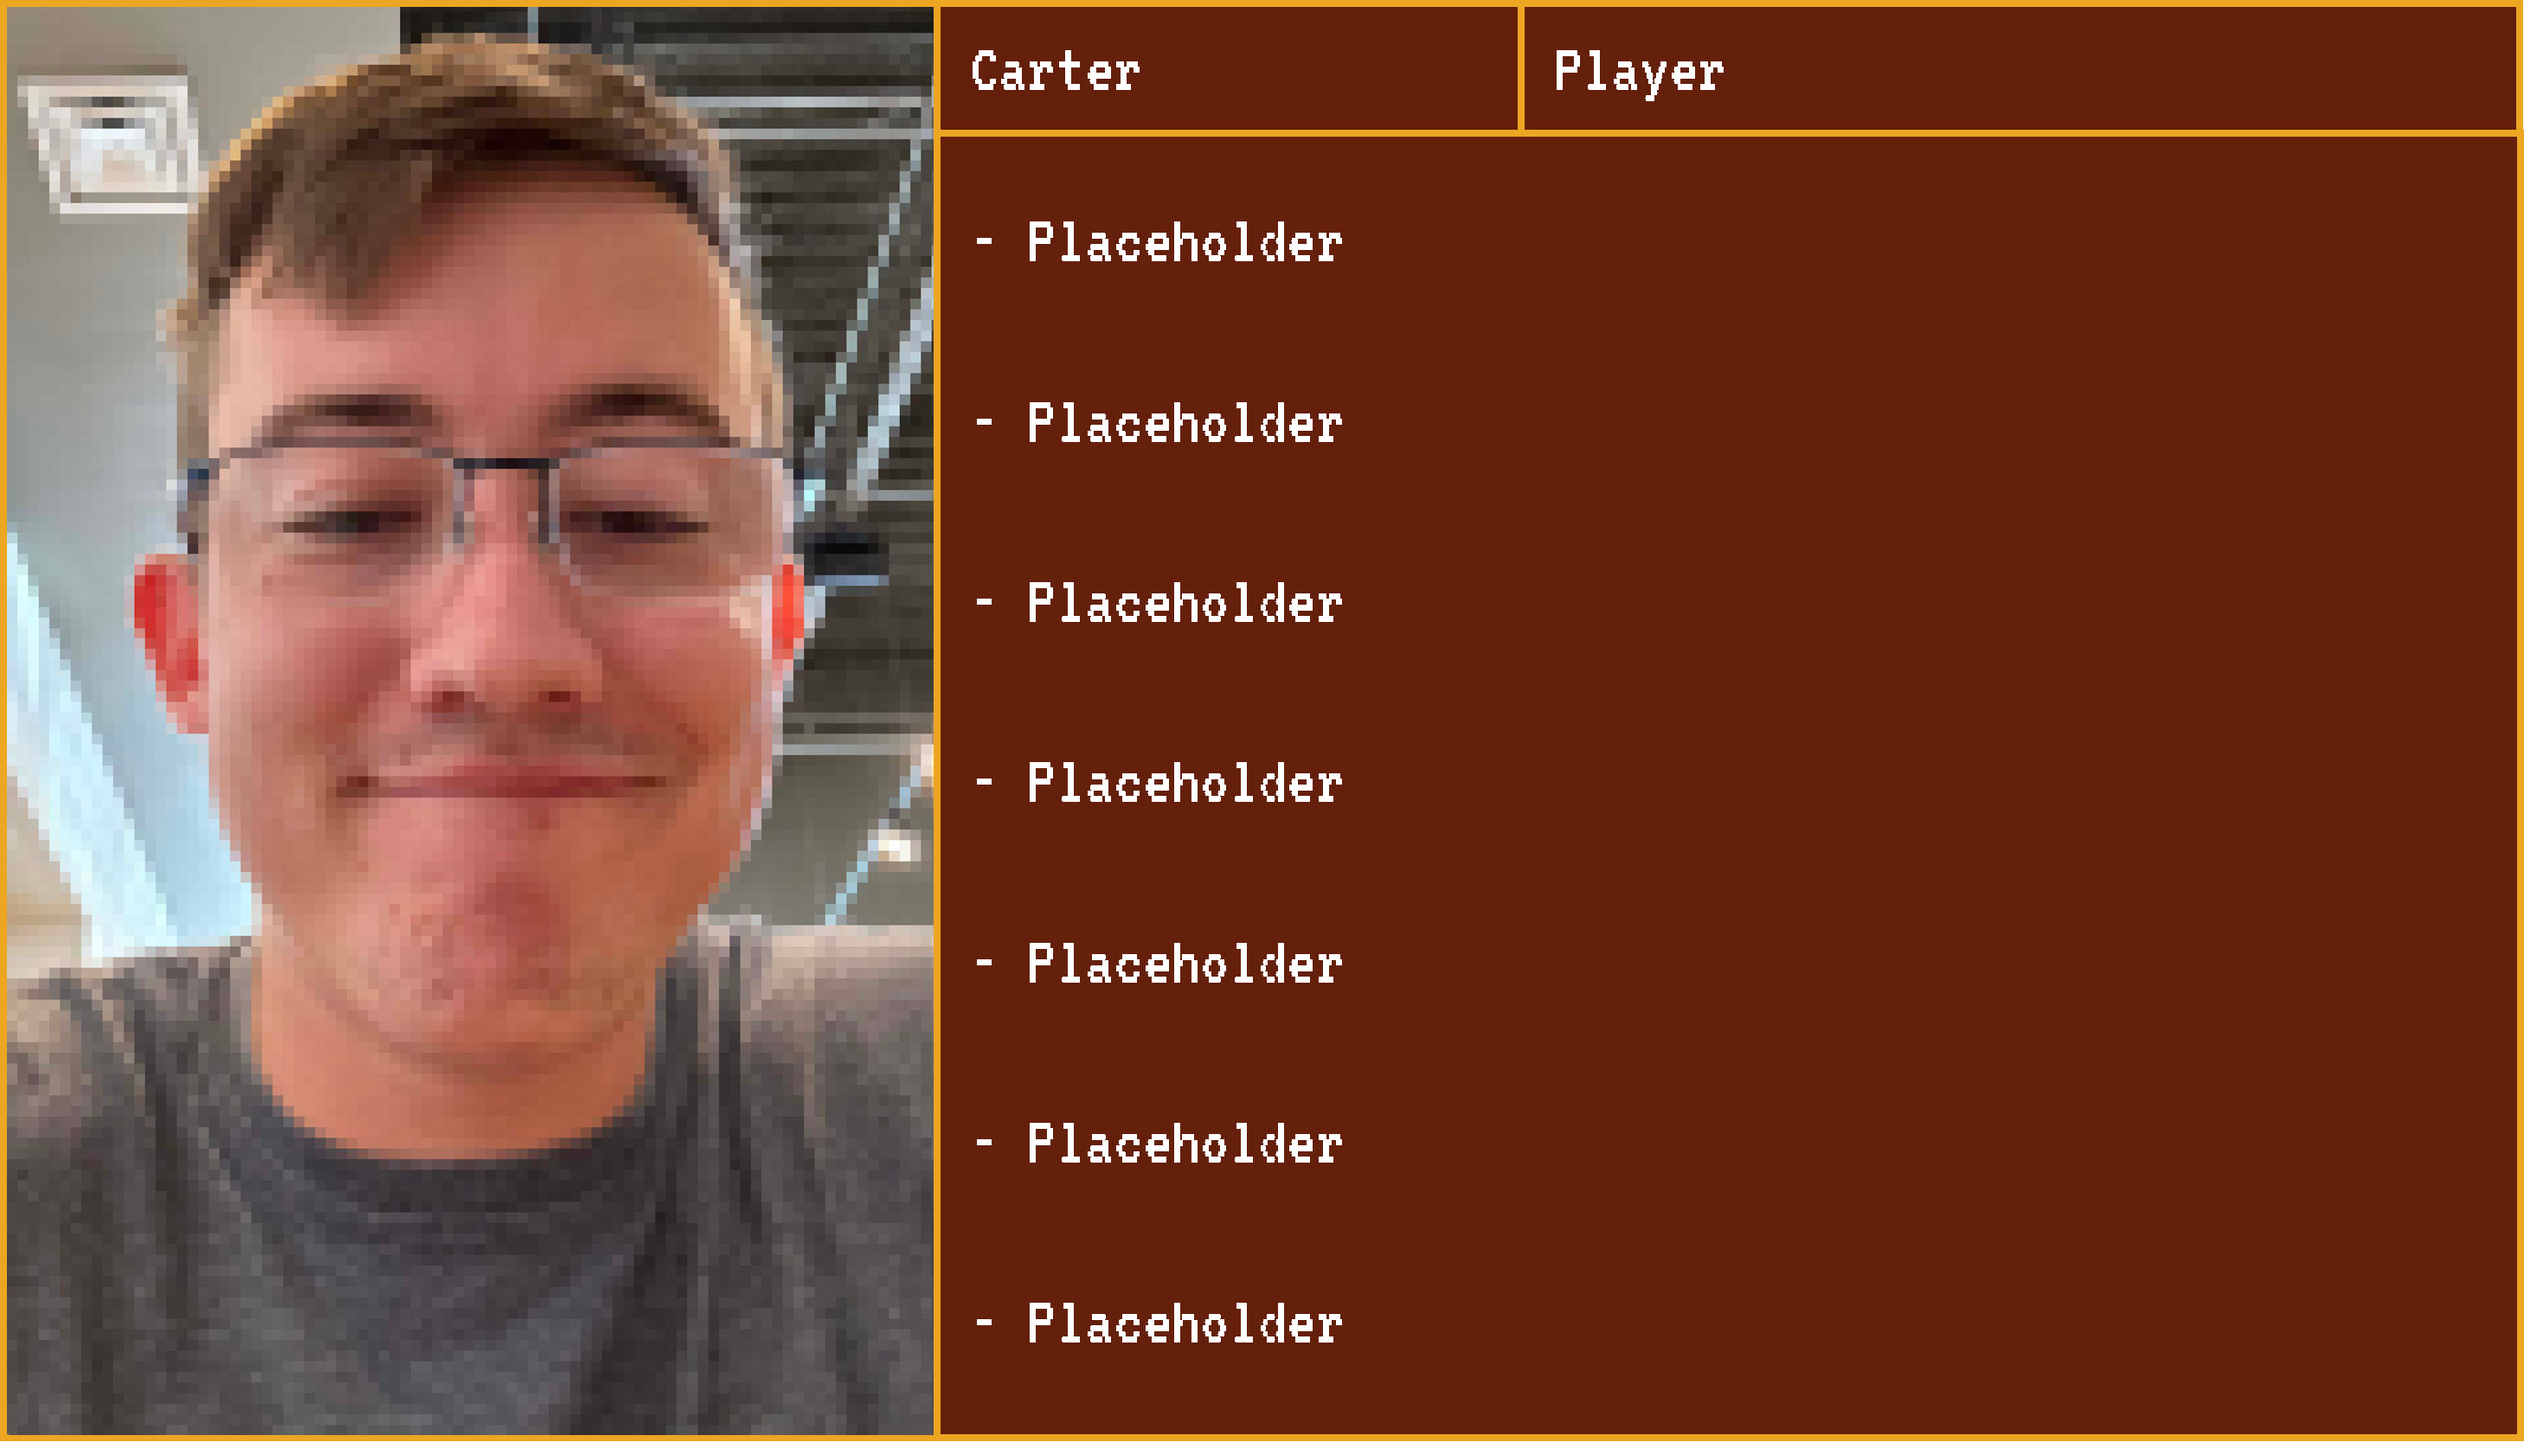
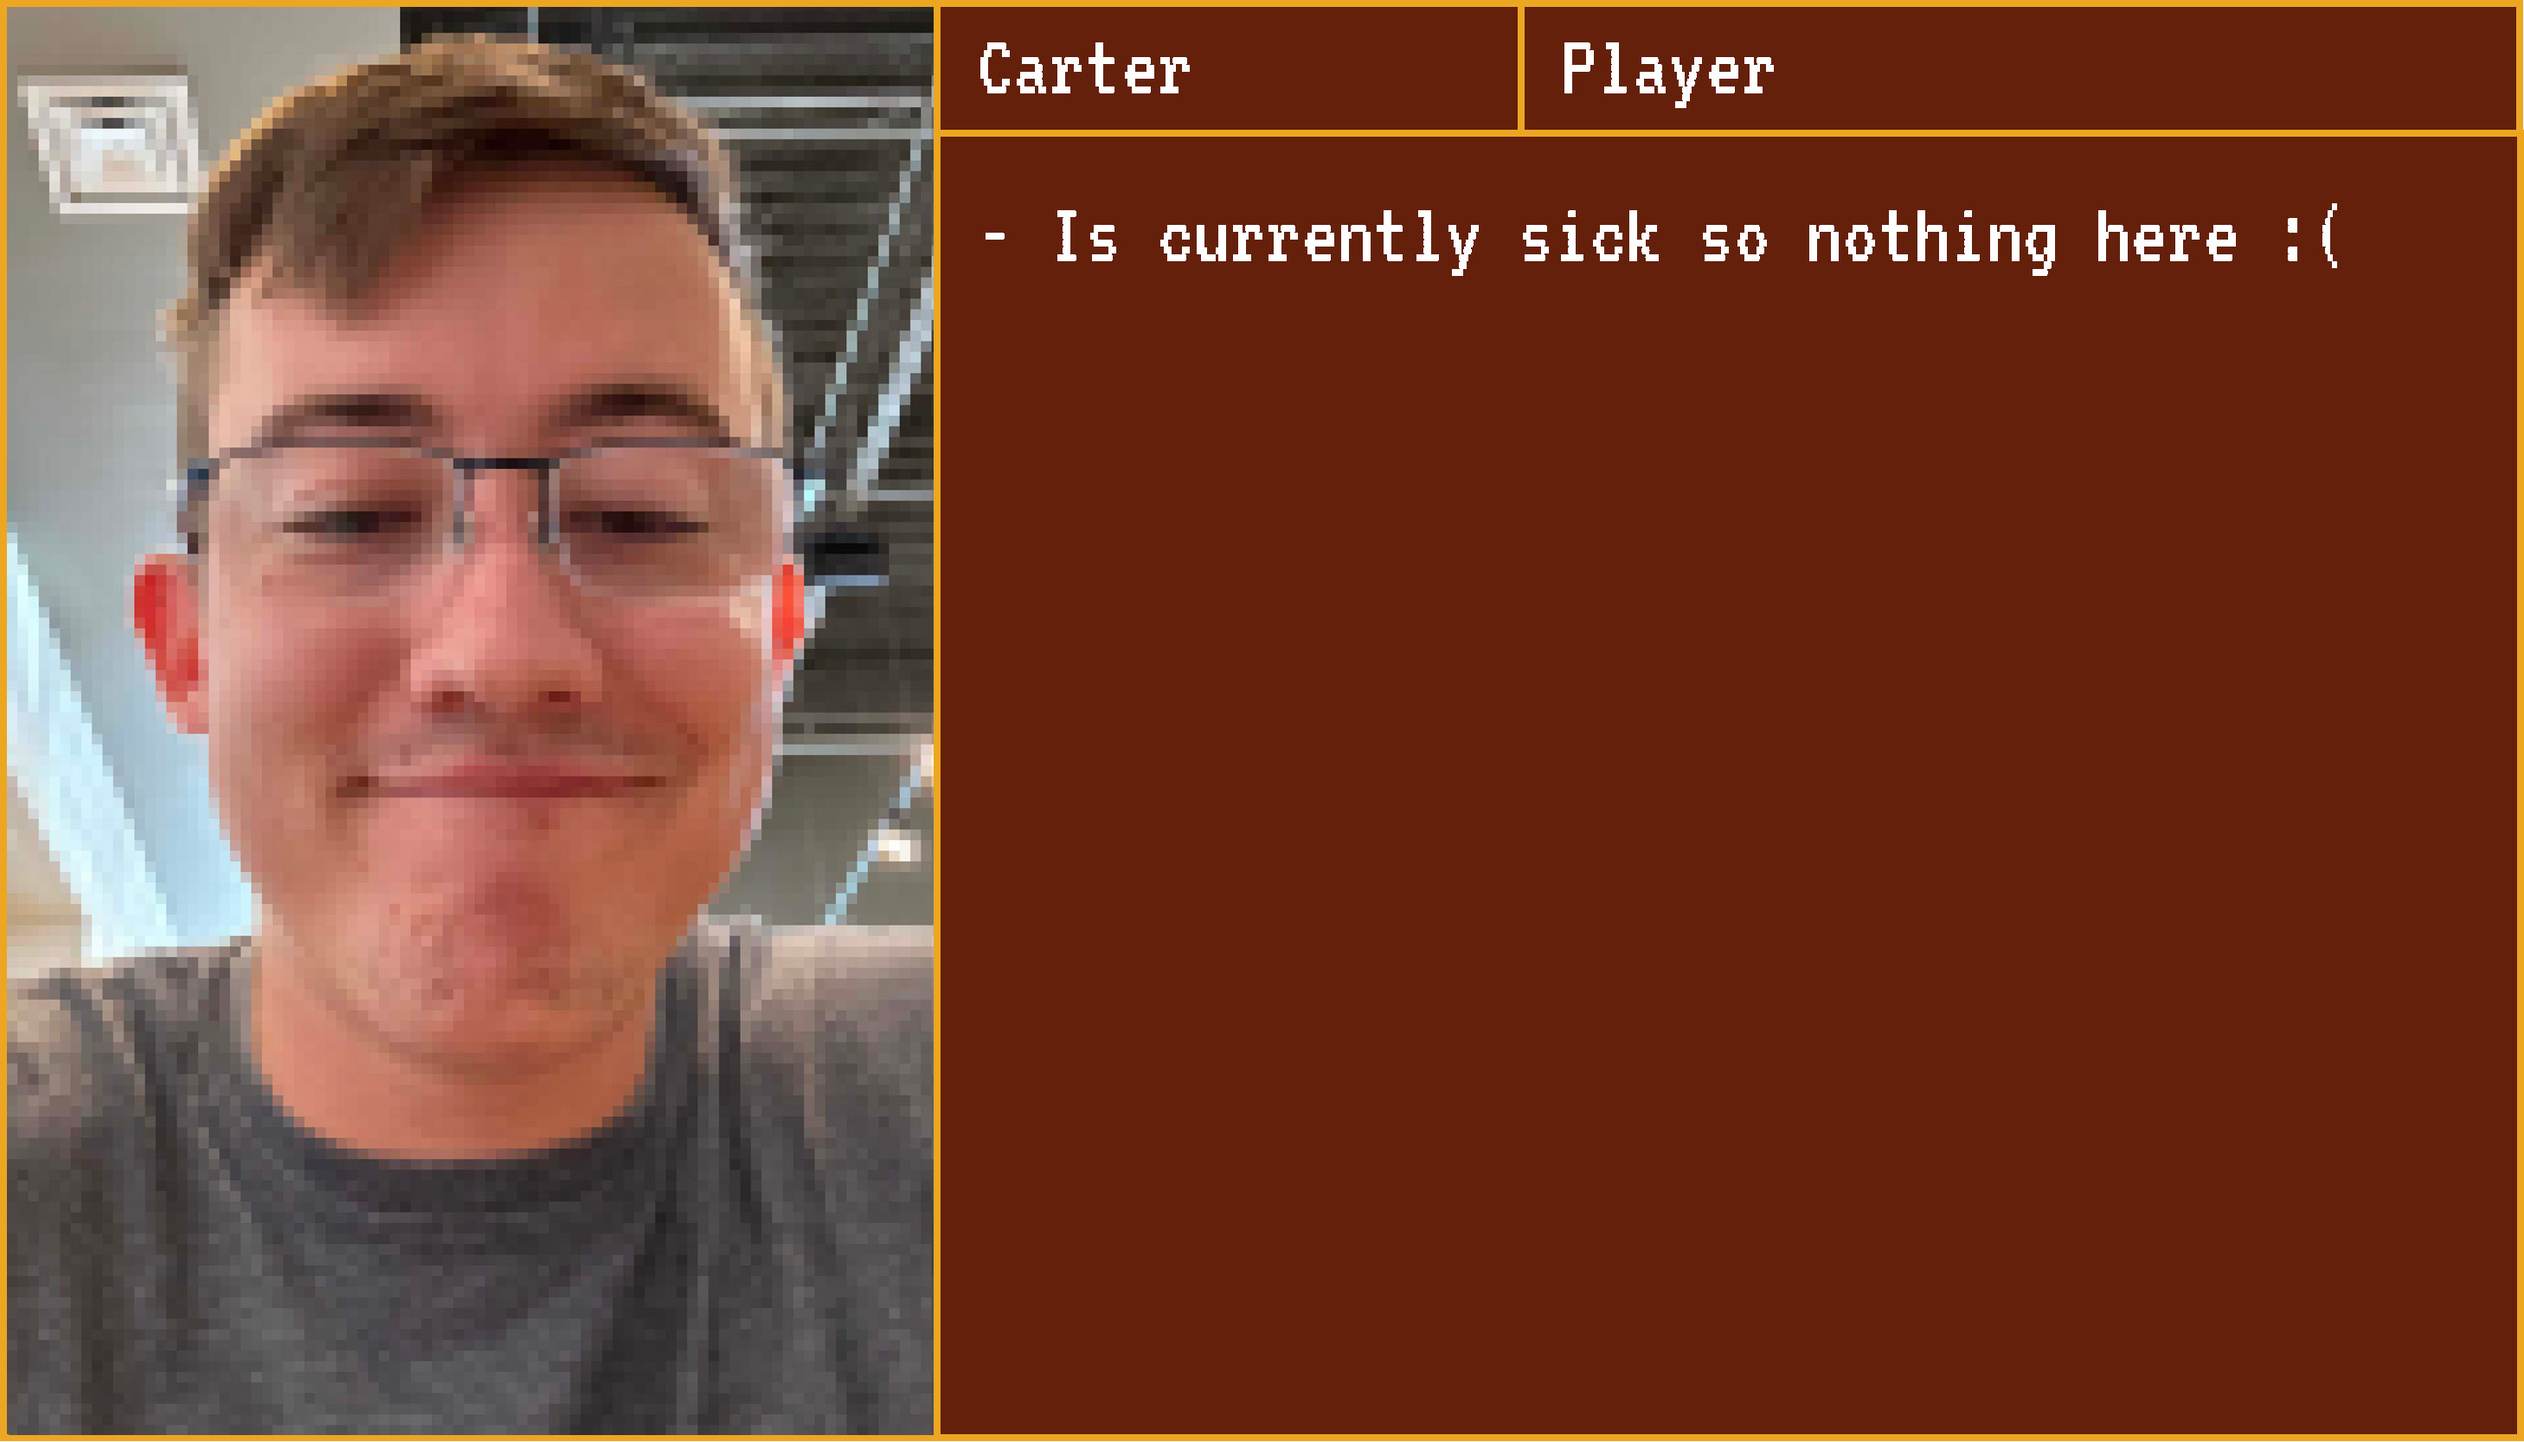
sde sophie addition

diff --git a/snapdragon-express/assets/extra pages/analysis.html b/snapdragon-express/assets/extra pages/analysis.html
@@ -75,11 +75,16 @@
 
             <div class="sophie broider">
                 <div class="left">
+                    <button class="sophie-button">
+                        <img src="../images/sophie-img.png">
+                    </button>
                 </div>
                 <div class="right">
                     <p>Honkai Star Rail?</p>
                 </div>
             </div>
+
+            <img src="../images/sophie-stats.jpg" class="imgstats-sophie">
 
             <div class="jordan broider">
                 <div class="left">
@@ -127,6 +132,7 @@
 
             <div class="sophie broider">
                 <div class="left">
+                    <img src="../images/sophie-img.png">
                 </div>
                 <div class="right">
                     <p>it really do</p>
@@ -279,6 +285,7 @@
 
             <div class="sophie broider">
                 <div class="left">
+                    <img src="../images/sophie-img.png">
                 </div>
                 <div class="right">
                     <p>the most important one</p>
@@ -305,6 +312,7 @@
 
             <div class="sophie broider">
                 <div class="left">
+                    <img src="../images/sophie-img.png">
                 </div>
                 <div class="right">
                     <p>... I'm getting suspicious</p>
@@ -331,6 +339,7 @@
 
             <div class="sophie broider">
                 <div class="left">
+                    <img src="../images/sophie-img.png">
                 </div>
                 <div class="right">
                     <p>the people haven't shown up during this entire convo</p>
@@ -397,6 +406,7 @@
 
             <div class="sophie broider">
                 <div class="left">
+                    <img src="../images/sophie-img.png">
                 </div>
                 <div class="right">
                     <p>That makes sense</p>

diff --git a/snapdragon-express/assets/writing.html b/snapdragon-express/assets/writing.html
@@ -63,11 +63,16 @@
 
             <div class="sophie broider">
                 <div class="left">
+                    <button class="sophie-button">
+                        <img src="images/sophie-img.png">
+                    </button>
                 </div>
                 <div class="right">
                     <p>...Is that why I only know one person here besides you?</p>
                 </div>
             </div>
+
+            <img src="images/sophie-stats.jpg" class="imgstats-sophie">
 
             <div class="bri broider">
                 <div class="left">
@@ -306,6 +311,7 @@
 
             <div class="sophie broider"> 
                 <div class="left">
+                    <img src="images/sophie-img.png" class="imgfit">
                 </div>
                 <div class="right">
                     <p>So you want to put all of us in a space and see what happens?</p>
@@ -368,6 +374,7 @@
 
             <div class="sophie broider">
                 <div class="left">
+                    <img src="images/sophie-img.png" class="imgfit">
                 </div>
                 <div class="right">
                     <p>friendship!</p>

diff --git a/snapdragon-express/assets/extra pages/epidemic.html b/snapdragon-express/assets/extra pages/epidemic.html
@@ -61,11 +61,16 @@
 
             <div class="sophie broider">
                 <div class="left">
+                    <button class="sophie-button">
+                        <img src="../images/sophie-img.png">
+                    </button>
                 </div>
                 <div class="right">
                     <p>We're getting philosophical</p>
                 </div>
             </div>
+
+            <img src="../images/sophie-stats.jpg" class="imgstats-sophie">
 
             <div class="jordan broider"> 
                 <div class="left">
@@ -175,6 +180,7 @@
 
             <div class="sophie broider">
                 <div class="left">
+                    <img src="../images/sophie-img.png">
                 </div>
                 <div class="right">
                     <p>the art kid experience</p>
@@ -237,6 +243,7 @@
 
             <div class="sophie broider">
                 <div class="left">
+                    <img src="../images/sophie-img.png">
                 </div>
                 <div class="right">
                     <p>Do not resist</p>

diff --git a/snapdragon-express/assets/writing.css b/snapdragon-express/assets/writing.css
@@ -9,7 +9,7 @@ img {
 body {
   background-color: #4a0e28;
   background-image: url(../assets/images/sde-background.jpg);
-  background-size: contain;
+  background-size: cover;
   background-position: center;
   background-repeat: no-repeat;
   background-attachment: fixed;
@@ -267,6 +267,35 @@ div.container {
 }
 
 .imgstats-jordan.show {
+  display: block;
+}
+
+.sophie-button {
+  cursor: pointer;
+  width: 100%;
+  max-width: 100%;
+  padding: 0;
+  border: none;
+  background: none;
+  display: block;
+  overflow: hidden;
+}
+
+.sophie-button img {
+  display: block;
+  width: 100%;
+  height: auto;       
+  object-fit: cover;
+}
+
+.imgstats-sophie {
+  position:relative;
+  height: 400px;
+  width: 700px;
+  display: none;
+}
+
+.imgstats-sophie.show {
   display: block;
 }
 

diff --git a/snapdragon-express/assets/main.js b/snapdragon-express/assets/main.js
@@ -64,6 +64,19 @@ document.addEventListener("DOMContentLoaded", function() {
 });
 
 document.addEventListener("DOMContentLoaded", function() {
+    const button = document.querySelector(".sophie-button");
+    const imgStats = document.querySelector(".imgstats-sophie");
+
+    if (button && imgStats) {
+        button.addEventListener("click", function(event) {
+            event.preventDefault();
+            
+            imgStats.classList.toggle("show");
+        });
+    }
+});
+
+document.addEventListener("DOMContentLoaded", function() {
     const button = document.querySelector(".radtke-button");
     const imgStats = document.querySelector(".imgstats-radtke");
 

diff --git a/snapdragon-express/main.css b/snapdragon-express/main.css
@@ -17,10 +17,6 @@ h1 {
   margin-top: 40px;
   position: relative;
   color: #4a0e28;
-  /* background: -webkit-linear-gradient(#289ce7, #a6dff0);
-  -webkit-background-clip: text;
-  -webkit-text-fill-color: transparent; */
-  /* -webkit-text-stroke: 0.2px black; */
 }
 
 .container {
@@ -31,7 +27,7 @@ h1 {
   justify-content: center;
   align-items: center;
   background-image: url(assets/images/sde-traindoor.jpg);
-  background-size: contain;
+  background-size: cover;
   background-position: center;
   background-repeat: no-repeat;
   background-attachment: fixed;
